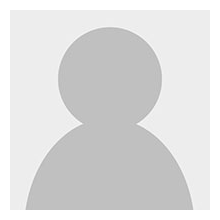
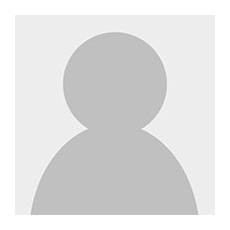
modified 'default png

diff --git a/Guestbook/wwwroot/css/site.css b/Guestbook/wwwroot/css/site.css
@@ -24,7 +24,7 @@ main, footer, nav {
 		color: var(--secondary-color);
 	}
 .photo {
-	background-image: url('/img/default.jpeg');
+	background-image: url('/img/default.png');
 	background-size: 60px;
 	background-repeat: no-repeat;
 	background-position: center top;
